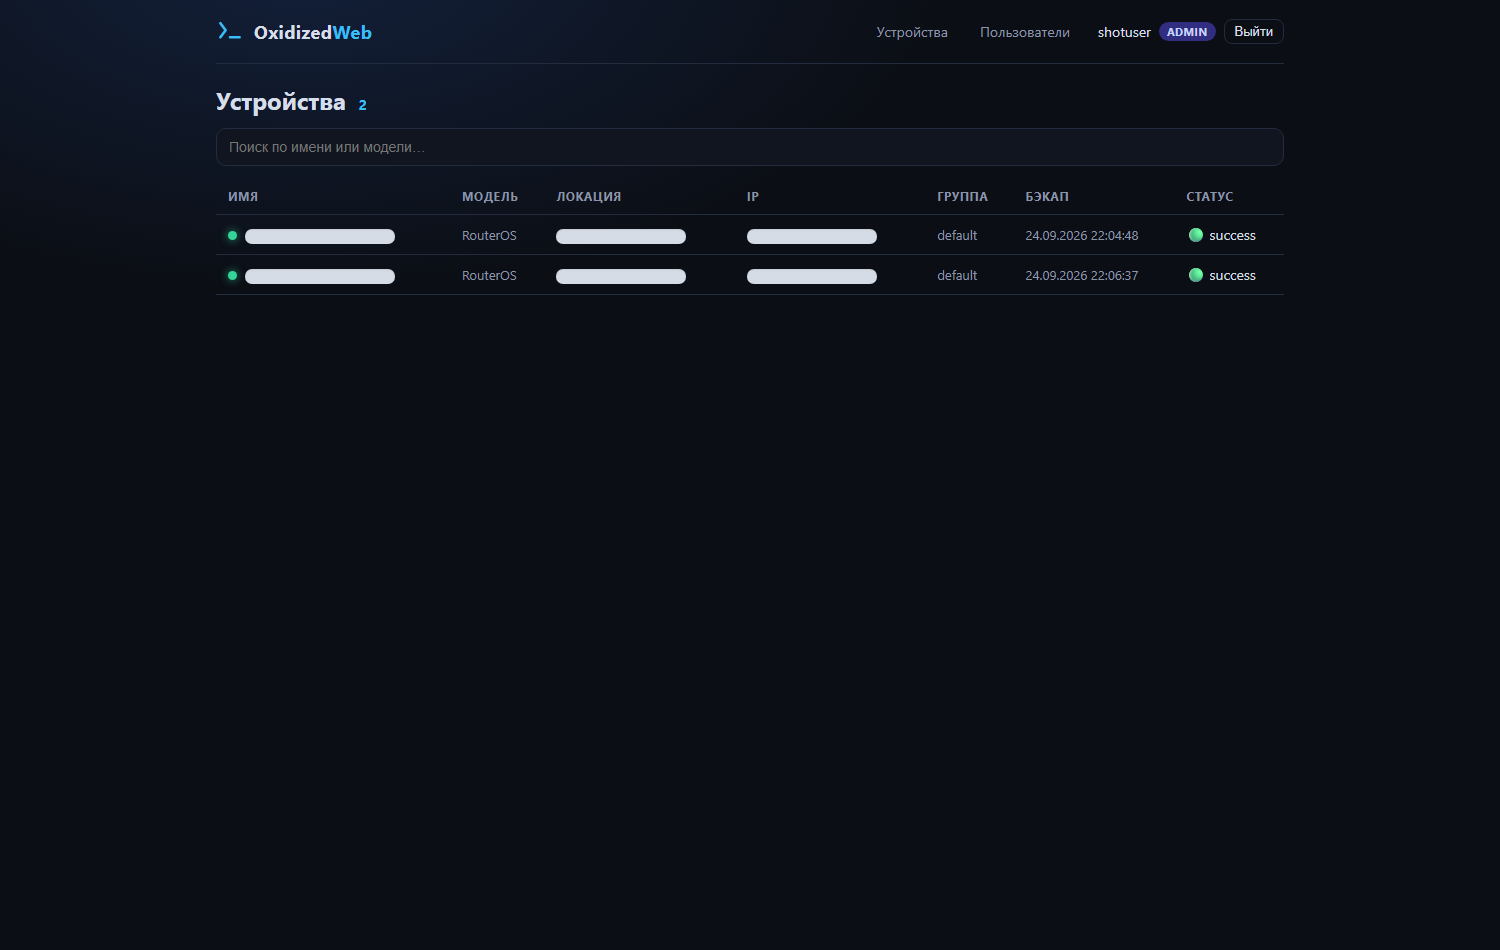
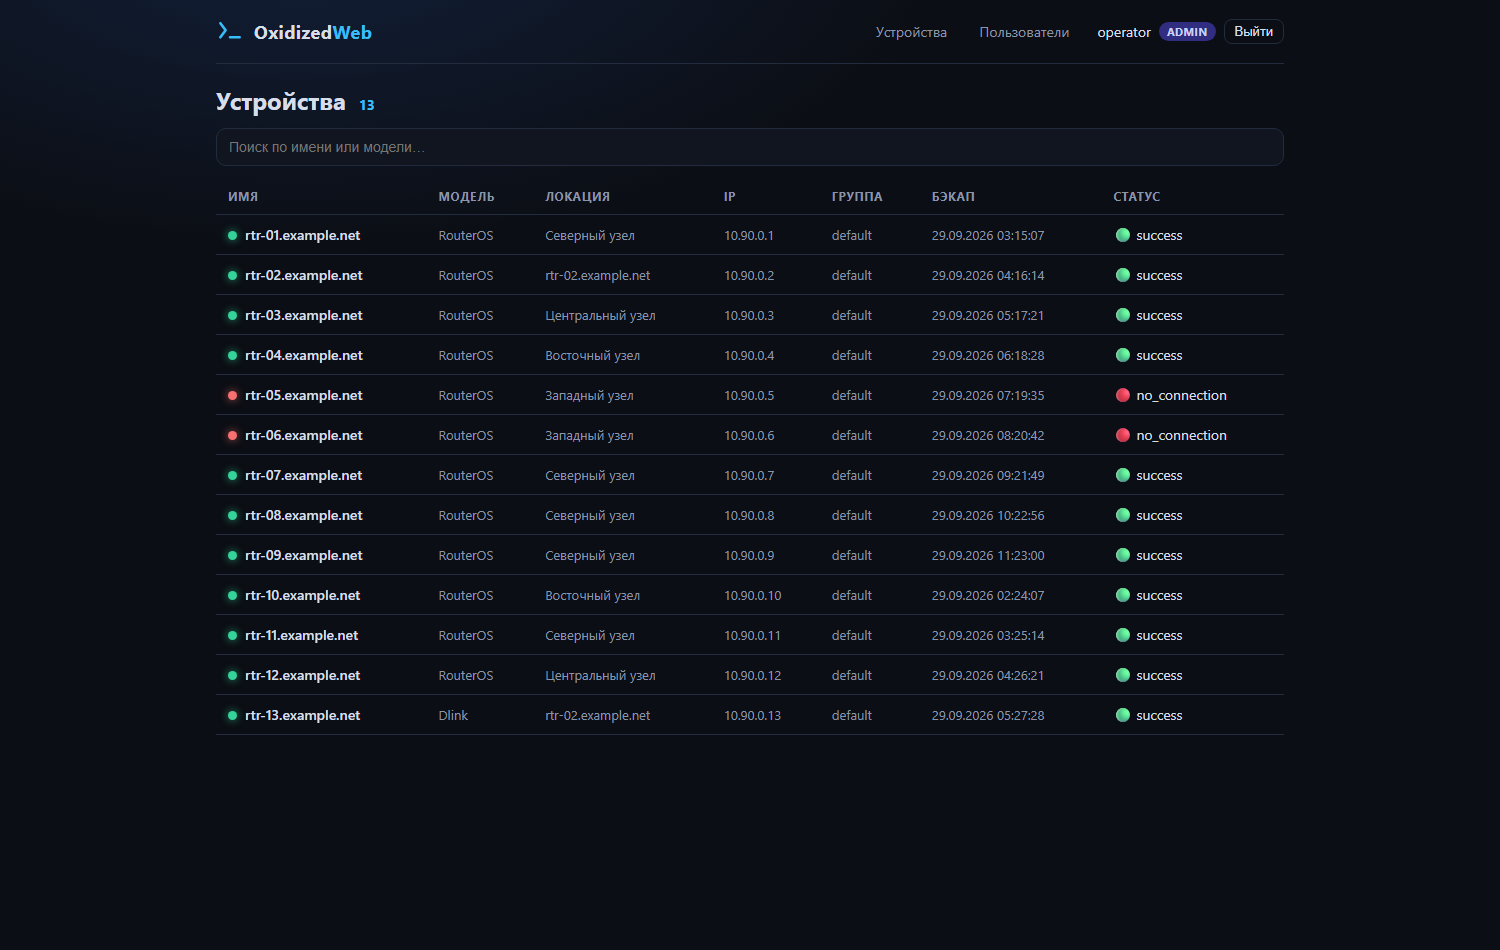
docs: replace real device data on screenshots with demo values

diff --git a/README.md b/README.md
@@ -17,6 +17,8 @@ Oxidized — демон, который:
 
 ## Скриншоты
 
+> На скриншотах — демонстрационные данные: имена, локации и IP-адреса вымышленные.
+
 Вход:
 
 ![Вход — OxidizedWeb](docs/screenshots/oxidized-web-login.png)
